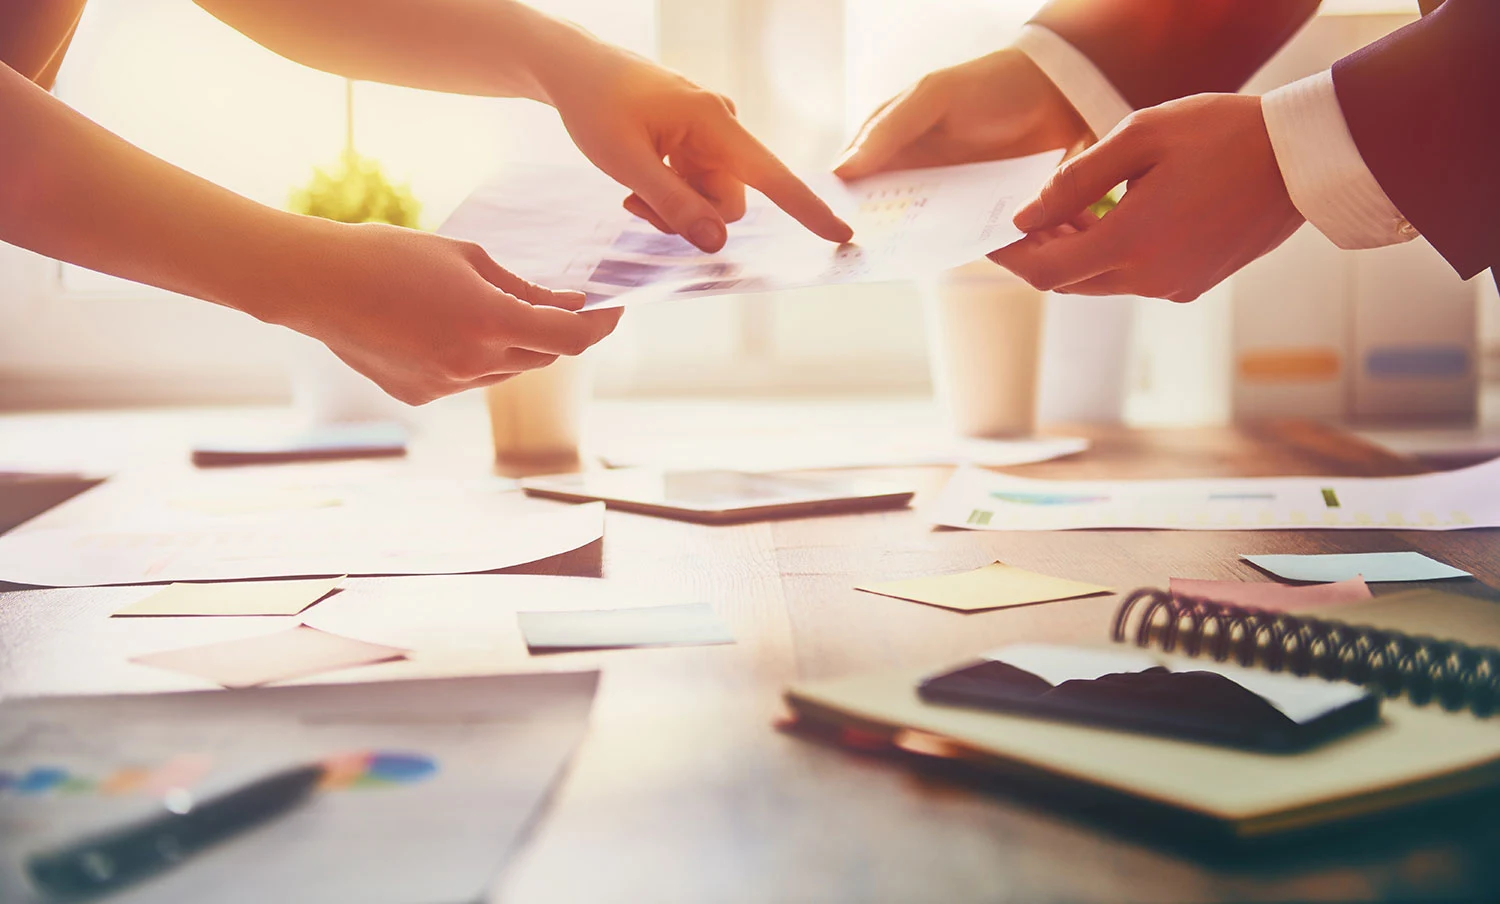
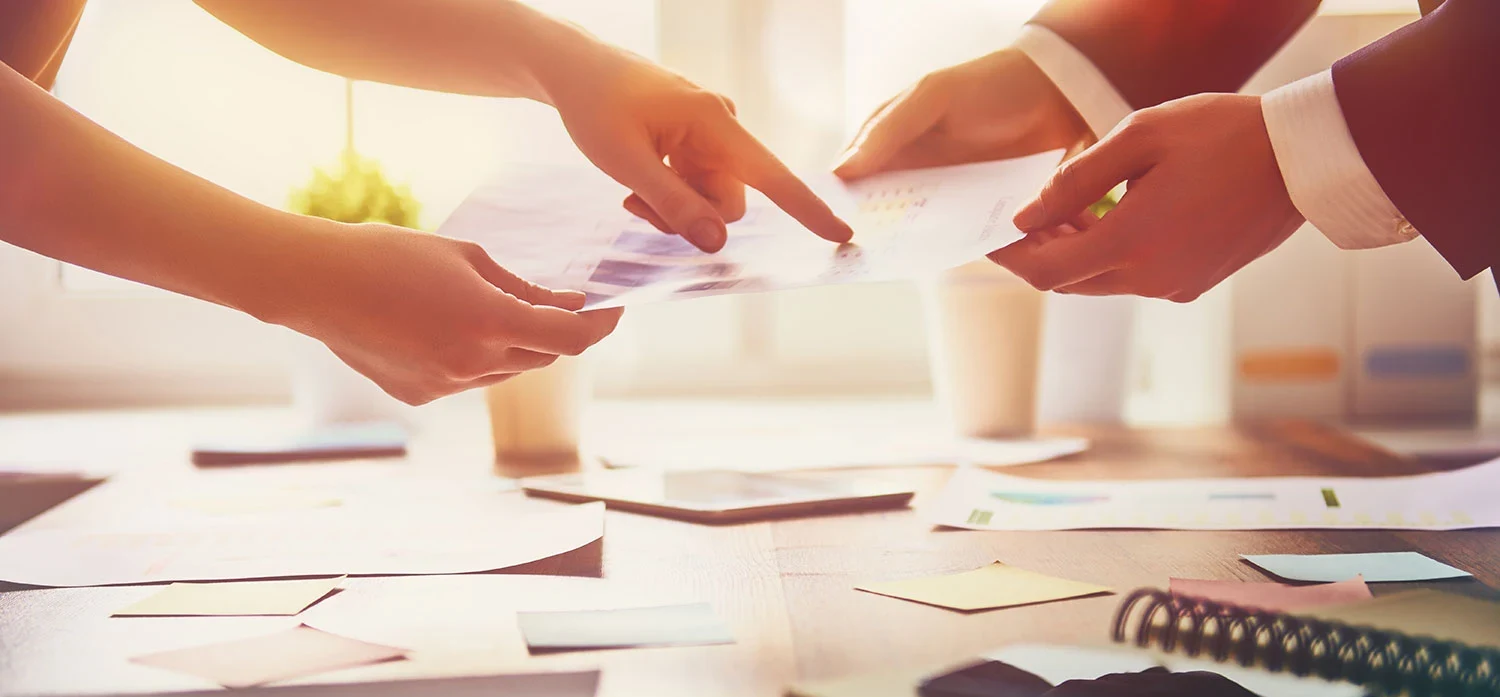
Changes of react parallax library and removed parallax effect on floating elements for performances reasons

diff --git a/src/Components/Home/HomeComponent.js b/src/Components/Home/HomeComponent.js
@@ -6,7 +6,6 @@ import Typography from "@material-ui/core/es/Typography";
 import { Fade, Button } from '@material-ui/core';
 import { CSSTransition } from 'react-transition-group';
 import { Translate } from "react-redux-i18n";
-import { Parallax, Background } from 'react-parallax';
 
 // Ours
 import { colors } from "../../Styles/colors";
@@ -57,7 +56,7 @@ class HomeComponent extends Component<{
 
   createParticle = (x, y) => {
     const particle = document.createElement('particle');
-    document.body.querySelector(".floats").appendChild(particle);
+    document.body.querySelector(".floatContainer").appendChild(particle);
 
     // Calculate a random size from 5px to 25px
     const size = Math.floor(Math.random() * 20 + 5);
@@ -118,70 +117,48 @@ class HomeComponent extends Component<{
                 <Typography variant="h3"><Translate value="home.catchphrase" /></Typography>
               </Container>
 
-              <Container className="floats">
-                <Parallax
-                  style={{ position: "absolute", inset: "0", opacity: "0.2" }}
-                  bgStyle={{ left: "90%", top: "40%", filter: "blur(4px)" }}
-                  strength={-150}
-                >
-                  <Background>
-                    <div className="wrapper"><img width="300px" draggable="false" src={dots} onClick={this.animateFloat} /></div>
-                  </Background>
-                </Parallax>
-                <Parallax
-                  style={{ position: "absolute", inset: "0" }}
-                  bgStyle={{ left: "20%", top: "30%"}}
-                  strength={-300}
-                >
-                  <Background>
-                    <div className="wrapper"><img width="180px" draggable="false" src={lines} onClick={this.animateFloat} /></div>
-                  </Background>
-                </Parallax>
-                <Parallax
-                  style={{ position: "absolute", inset: "0", opacity: "0.2" }}
-                  bgStyle={{ left: "10%", top: "80%", filter: "blur(4px)" }}
-                  strength={-150}
-                >
-                  <Background>
-                    <div className="wrapper"><img width="300px" draggable="false" src={wave} onClick={this.animateFloat} /></div>
-                  </Background>
-                </Parallax>
-                <Parallax
-                  style={{ position: "absolute", inset: "0" }}
-                  bgStyle={{ left: "35%", top: "90%" }}
-                  strength={-200}
-                >
-                  <Background>
-                    <div className="wrapper"><img width="200px" draggable="false" src={wave} onClick={this.animateFloat} /></div>
-                  </Background>
-                </Parallax>
-                <Parallax
-                  style={{ position: "absolute", inset: "0" }}
-                  bgStyle={{ left: "70%", top: "30%" }}
-                  strength={-300}
-                >
-                  <Background>
-                    <div className="wrapper"><img width="120px" draggable="false" src={losange} onClick={this.animateFloat} /></div>
-                  </Background>
-                </Parallax>
-                <Parallax
-                  style={{ position: "absolute", inset: "0", opacity: "0.2" }}
-                  bgStyle={{ left: "10%", top: "50%", filter: "blur(4px)" }}
-                  strength={-150}
-                >
-                  <Background>
-                    <div className="wrapper"><img width="300px" draggable="false" src={losange} onClick={this.animateFloat} /></div>
-                  </Background>
-                </Parallax>
-                <Parallax
-                  style={{ position: "absolute", inset: "0" }}
-                  bgStyle={{ left: "90%", top: "100%" }}
-                  strength={-300}
-                >
-                  <Background>
-                    <div className="wrapper"><img width="200px" draggable="false" src={losange} onClick={this.animateFloat} /></div>
-                  </Background>
-                </Parallax>
+              <Container className="floatContainer">
+                  <div className="float" style={{ left: "80%", top: "30%", opacity: "0.1", filter: "blur(4px)" }}>
+                    <div>
+                      <img width="300px" height="300px" draggable="false" src={dots} onClick={this.animateFloat} />
+                    </div>
+                  </div>
+
+                  <div className="float" style={{ left: "15%", top: "10%" }}>
+                    <div>
+                      <img width="180px" height="180px" draggable="false" src={lines} onClick={this.animateFloat} />
+                    </div>
+                  </div>
+
+                  <div className="float" style={{ left: "5%", top: "70%", opacity: "0.1", filter: "blur(4px)" }}>
+                    <div>
+                      <img width="300px" height="300px" draggable="false" src={wave} onClick={this.animateFloat} />
+                    </div>
+                  </div>
+
+                  <div className="float" style={{ left: "40%", top: "70%" }}>
+                    <div>
+                      <img width="200px" height="200px" draggable="false" src={wave} onClick={this.animateFloat} />
+                    </div>
+                  </div>
+
+                  <div className="float" style={{ left: "60%", top: "5%" }}>
+                    <div>
+                      <img width="120px" height="120px" draggable="false" src={losange} onClick={this.animateFloat} />
+                    </div>
+                  </div>
+
+                  <div className="float" style={{ left: "5%", top: "40%", opacity: "0.1", filter: "blur(4px)" }}>
+                    <div>
+                      <img width="300px" height="300px" draggable="false" src={losange} onClick={this.animateFloat} />
+                    </div>
+                  </div>
+
+                  <div className="float" style={{ left: "85%", top: "75%" }}>
+                    <div>
+                      <img width="200px" height="200px" draggable="false" src={losange} onClick={this.animateFloat} />
+                    </div>
+                  </div>
               </Container>
             </Container>
           </CSSTransition>

diff --git a/src/Styles/Home/transitions.scss b/src/Styles/Home/transitions.scss
@@ -33,16 +33,11 @@
     }
   }
 
-  .floats {
-    position: absolute;
-    overflow: hidden;
-    overflow: clip visible;
-    inset: 0px;
-
+  .floatContainer {
     --scale: 1;
 
     @for $i from 1 through 7 {
-      .react-parallax:nth-of-type(#{$i}) .react-parallax-background {
+      .float:nth-of-type(#{$i}) {
         @include animation(float-#{$i} 30s -1*random(100)/10+s ease infinite alternate);
 
         img:hover {
@@ -51,43 +46,33 @@
       }
 
       @keyframes float-#{$i} {
-        0%   {@include translate_rotate(-30+random(60) + px, -30+random(60) + px, +5 - random(10) + deg);}
-        25%  {@include translate_rotate(-30+random(60) + px, -30+random(60) + px, +5 - random(10) + deg);}
-        50%  {@include translate_rotate(-30+random(60) + px, -30+random(60) + px, +5 - random(10) + deg);}
-        75%  {@include translate_rotate(-30+random(60) + px, -30+random(60) + px, +5 - random(10) + deg);}
-        100% {@include translate_rotate(-30+random(60) + px, -30+random(60) + px, +5 - random(10) + deg);}
+        0%   {@include translate_rotate(-50+random(100) + px, -50+random(100) + px, +10 - random(20) + deg);}
+        25%  {@include translate_rotate(-50+random(100) + px, -50+random(100) + px, +10 - random(20) + deg);}
+        50%  {@include translate_rotate(-50+random(100) + px, -50+random(100) + px, +10 - random(20) + deg);}
+        75%  {@include translate_rotate(-50+random(100) + px, -50+random(100) + px, +10 - random(20) + deg);}
+        100% {@include translate_rotate(-50+random(100) + px, -50+random(100) + px, +10 - random(20) + deg);}
       }
     }
 
-    .react-parallax:nth-of-type(7) .react-parallax-background img {
+    .float:nth-of-type(7) img {
       @include transform(rotate(-20deg) scale(var(--scale)));
     }
 
-    .react-parallax:nth-of-type(6) .react-parallax-background img {
+    .float:nth-of-type(6) img {
       @include transform(rotate(-20deg) scale(var(--scale)));
     }
 
-    .react-parallax:nth-of-type(4) .react-parallax-background img {
+    .float:nth-of-type(4) img {
       @include transform(rotate(20deg) scale(var(--scale)));
     }
 
-    .react-parallax {
-      pointer-events: none;
-      user-select:none;
-
-      .react-parallax-background {
-        pointer-events: all;
-        cursor: pointer;
-      }
-    }
-
-    .react-parallax .react-parallax-background img {
+    .float img {
       @include transform(rotate(0deg) scale(var(--scale)));
       @include transition(200ms ease);
     }
 
     @media only screen and (min-width: 2000px) {
-      --scale: 1.2;
+      --scale: 1.3;
     }
 
     @media only screen and (max-width: 1450px) {

diff --git a/src/Components/MainContentAreaComponent.js b/src/Components/MainContentAreaComponent.js
@@ -1,7 +1,8 @@
 // External
-import React, { Component } from "react";
+import React, { Component, useLayoutEffect } from "react";
 import Typography from "@material-ui/core/es/Typography";
 import { Translate } from "react-redux-i18n";
+import { ParallaxBanner, useController } from 'react-scroll-parallax';
 
 // Ours
 import Home from "../Containers/Home";
@@ -13,15 +14,28 @@ import ExperiencesPro from "../Containers/ExperiencesPro";
 import workBg from "../Assets/Images/work-background.webp";
 import abstractBg from "../Assets/Images/abstract-background.webp";
 
+const ParallaxCache = () => {
+    const { parallaxController } = useController();
+
+    useLayoutEffect(() => {
+        const handler = () => parallaxController.update();
+        window.addEventListener('load', handler);
+        return () => window.removeEventListener('load', handler);
+    }, [parallaxController]);
+
+    return null;
+};
+
 class MainContentAreaComponent extends Component {
   render() {
     return (
       <div className="MainContent flexColumn hInherit">
+        <ParallaxCache />
         <Header {...this.props} />
         <Home {...this.props} />
-        <ParallaxImage imgSrc={abstractBg} />
+        <ParallaxBanner layers={[{ image: abstractBg, amount: 0.4 }]} style={{ height: "60vh", width: "100%" }} />
         <Presentation />
-        <ParallaxImage imgSrc={workBg} />
+        <ParallaxBanner layers={[{ image: workBg, amount: 0.4 }]} style={{ height: "60vh", width: "100%" }} />
         <ExperiencesPro {...this.props} />
         <Typography style={{ textAlign: "center", marginBottom: "1em" }} variant="h1"><Translate value="moreLater" /></Typography>
       </div>

diff --git a/src/Components/ExperiencesPro/JobEntryComponent.js b/src/Components/ExperiencesPro/JobEntryComponent.js
@@ -4,11 +4,11 @@ import React, { Component } from "react";
 import { Container } from "react-bootstrap";
 import Typography from "@material-ui/core/es/Typography";
 import { CSSTransition } from "react-transition-group";
+import { ParallaxBanner } from 'react-scroll-parallax';
 
 // Ours
 import "../../Styles/ExperiencesPro/transitions.scss";
 import VisibilitySensor from "../../Shared/UI/visibilitySensor";
-import ParallaxImage from "../../Shared/UI/parallaxImage";
 
 class JobEntryComponent extends Component<{
   entreprise: string,
@@ -28,7 +28,7 @@ class JobEntryComponent extends Component<{
 
               { this.props.children }
 
-              { this.props.imgSrc && <ParallaxImage imgSrc={this.props.imgSrc} />}
+              { this.props.imgSrc && <ParallaxBanner layers={[{ image: this.props.imgSrc, amount: 0.3 }]} style={{ height: "60vh" }} />}
 
               <hr/>
 

diff --git a/src/root.js b/src/root.js
@@ -2,6 +2,7 @@
 import React from "react";
 import { Provider } from "react-redux";
 import { createMuiTheme, MuiThemeProvider } from "@material-ui/core/styles";
+import { ParallaxProvider } from 'react-scroll-parallax';
 
 // Ours
 import { colors } from "./Styles/colors";
@@ -98,11 +99,13 @@ const theme = createMuiTheme({
 
 // Factor out what normally would go in root.js in order to combine Router && Redux store
 const Root = ({ store }) => (
-  <Provider store={store}>
-    <MuiThemeProvider theme={theme}>
-      <App {...store}/>
-    </MuiThemeProvider>
-  </Provider>
+  <ParallaxProvider>
+    <Provider store={store}>
+      <MuiThemeProvider theme={theme}>
+          <App {...store}/>
+      </MuiThemeProvider>
+    </Provider>
+  </ParallaxProvider>
 );
 
 export default Root;

diff --git a/src/Styles/global.scss b/src/Styles/global.scss
@@ -52,7 +52,7 @@ body {
 
 /*************************************** MAIN COMPONENTS SPECIFICS ****************************************************/
 
-.MainContent > .react-parallax {
+.MainContent > .parallax-banner {
   margin-top: -15vh;
   clip-path: unquote(generateWave());
   transition: clip-path 1s ease;
@@ -73,13 +73,13 @@ body {
 }
 
 @media only screen and (max-width: 1200px) {
-  .MainContent > .react-parallax {
+  .MainContent > .parallax-banner {
     clip-path: unquote(generateWave($frequency: 2));
   }
 }
 
 @media only screen and (max-width: 600px) {
-  .MainContent > .react-parallax {
+  .MainContent > .parallax-banner {
     clip-path: unquote(generateWave($frequency: 3));
   }
 }

diff --git a/src/Styles/ExperiencesPro/experiencesProStyles.scss b/src/Styles/ExperiencesPro/experiencesProStyles.scss
@@ -107,10 +107,11 @@
     border-color: $secondary;
   }
 
-  .react-parallax {
+  .parallax-banner {
     margin-left: -5.5%;
     clip-path: unquote(generateWave());
     transition: clip-path 1s ease;
+    min-width: 100vw;
 
     img {
       min-width: 100vw;
@@ -118,13 +119,13 @@
   }
 
   @media only screen and (max-width: 1200px) {
-    .react-parallax {
+    .parallax-banner {
       clip-path: unquote(generateWave($frequency: 2));
     }
   }
 
   @media only screen and (max-width: 600px) {
-    .react-parallax {
+    .parallax-banner {
       clip-path: unquote(generateWave($frequency: 3));
     }
   }

diff --git a/src/Styles/Home/homeStyles.scss b/src/Styles/Home/homeStyles.scss
@@ -9,7 +9,7 @@
     height: 100vh;
     width: 100%;
 
-    > .container.nomPrenom {
+    .nomPrenom {
       margin: auto;
       filter: drop-shadow(8px 12px 20px rgba(0,0,0,40%));
       z-index: 100;
@@ -20,9 +20,18 @@
       }
     }
 
-    .react-parallax {
-      img {
+    .floatContainer {
+      position: absolute;
+      overflow: hidden;
+      overflow: clip visible;
+      inset: 0px;
+
+      .float {
+        user-select:none;
+        width: fit-content;
+        position: absolute;
         filter: drop-shadow(5px 8px 14px black);
+        cursor: pointer;
       }
     }
   }
